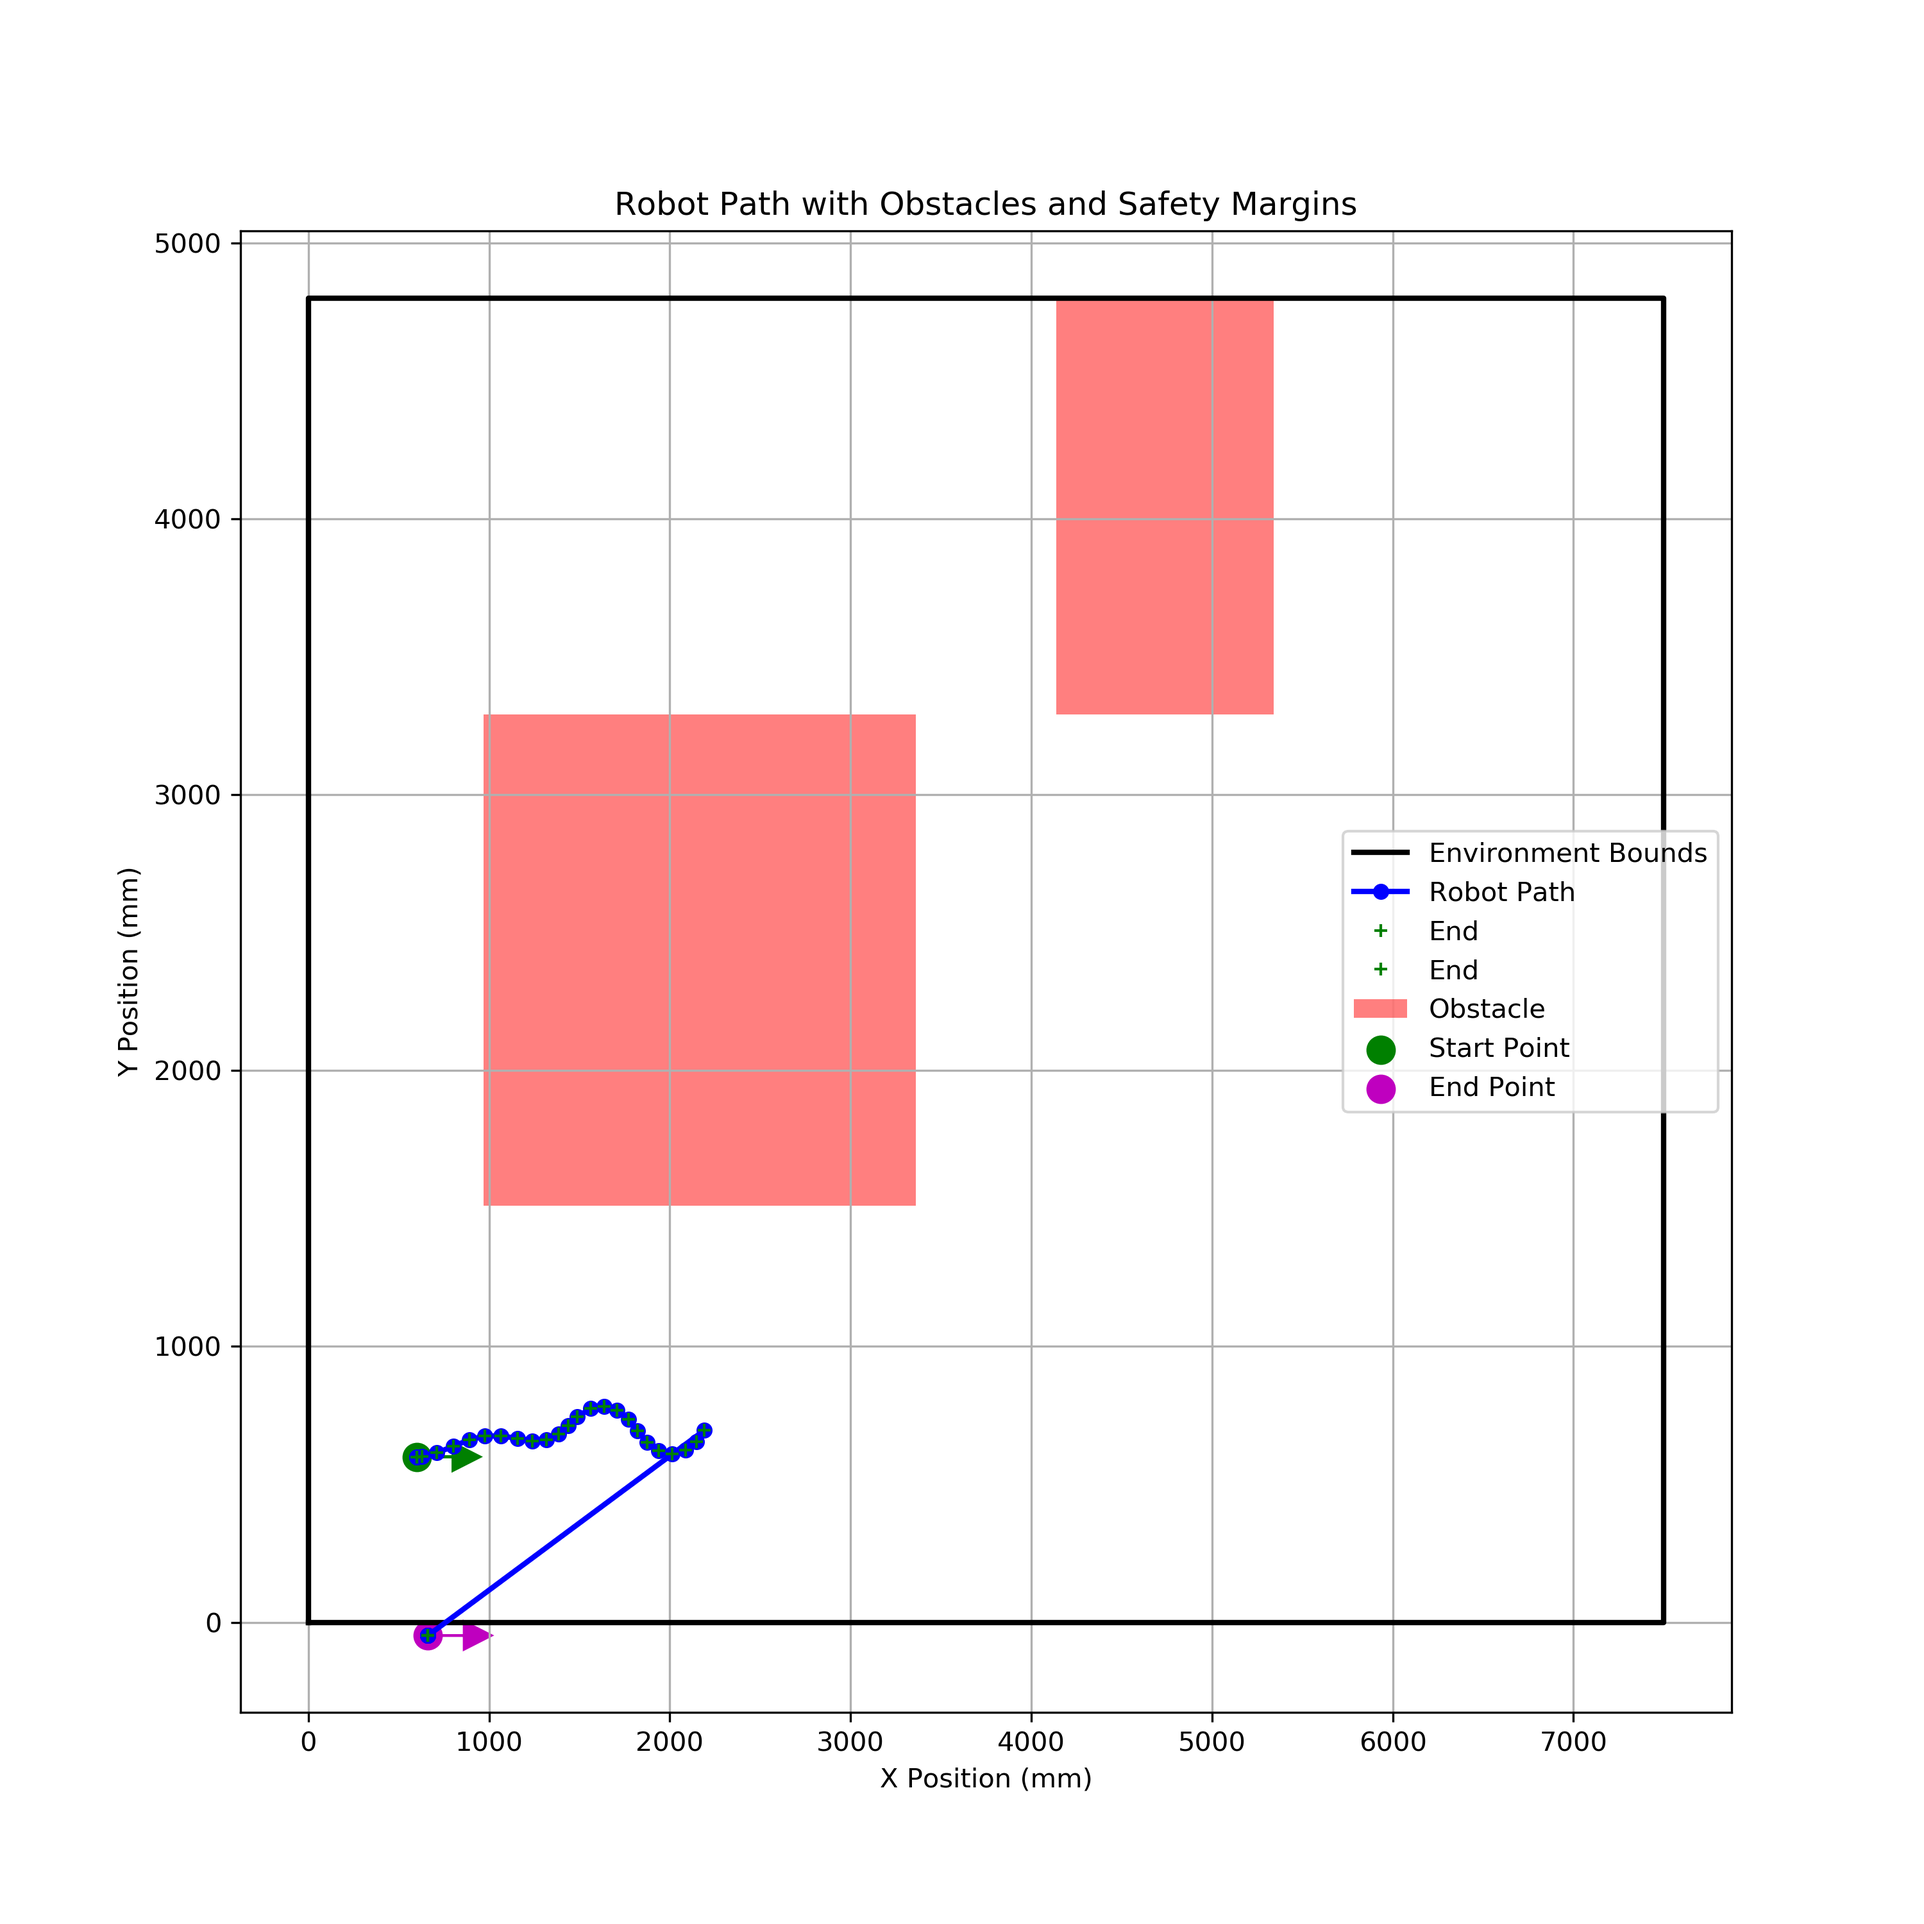
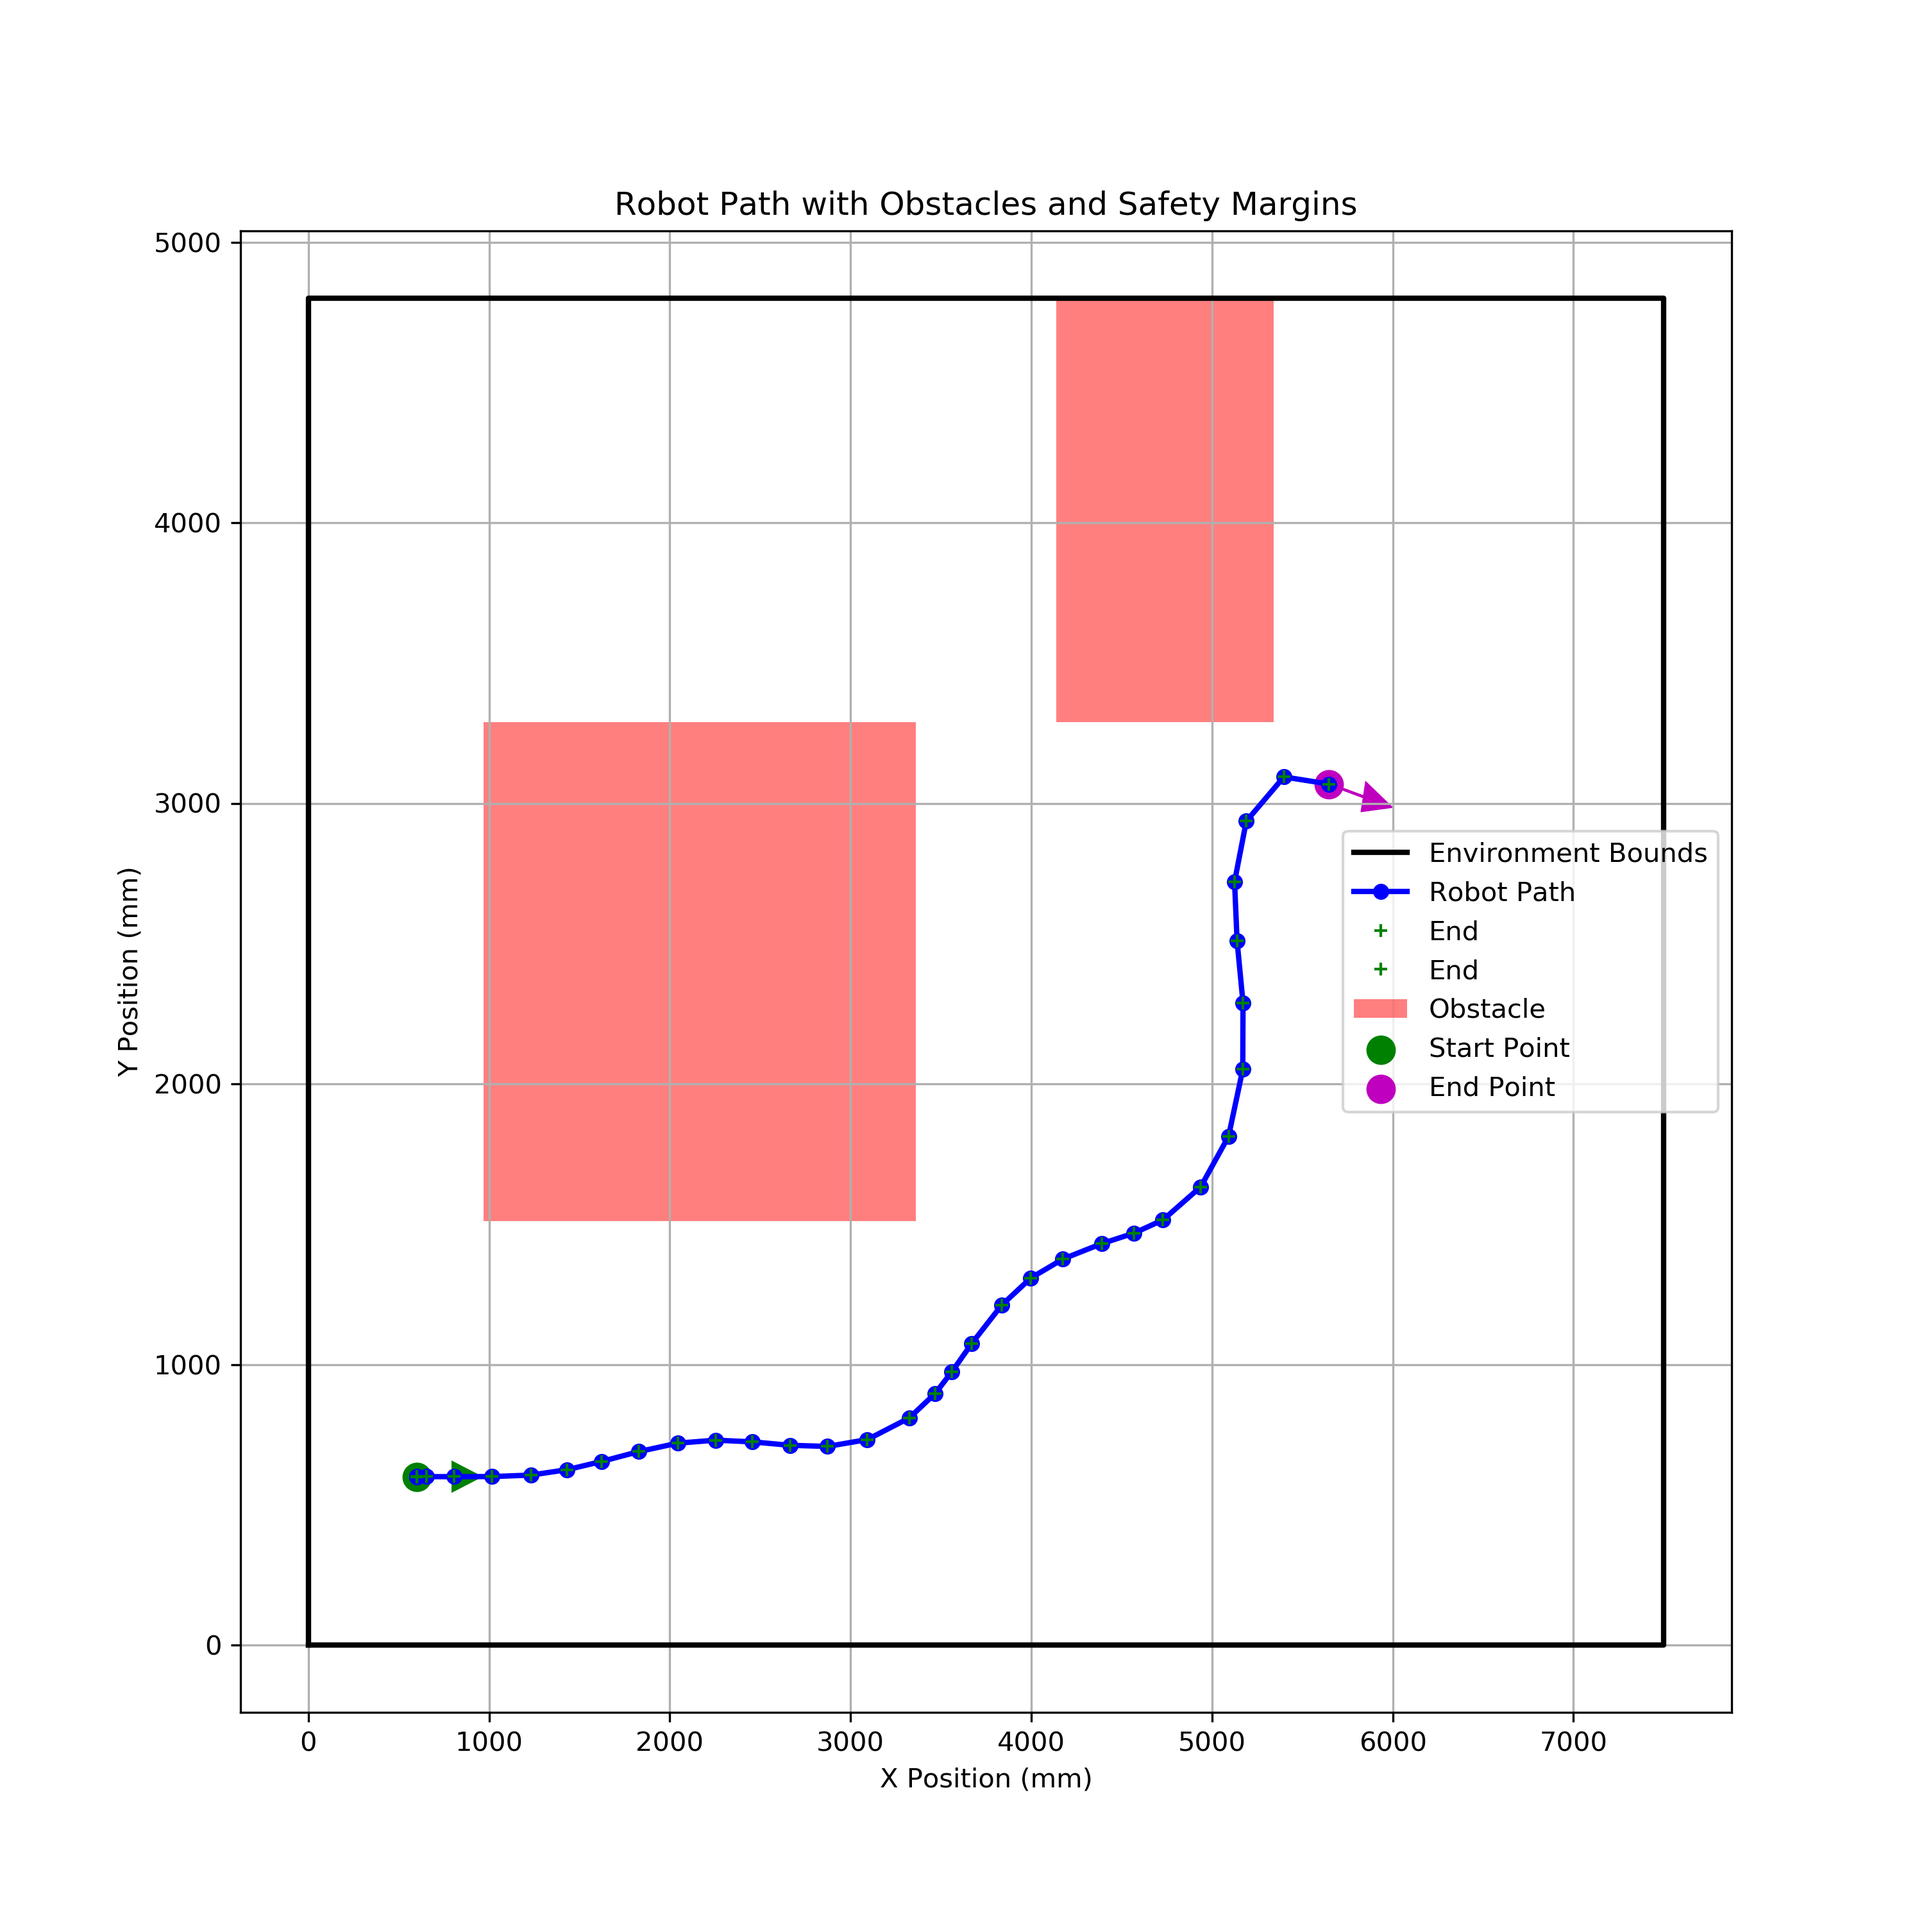
updated increment macro

diff --git a/src/control_stack/src/main.cpp b/src/control_stack/src/main.cpp
@@ -28,6 +28,8 @@ using namespace std;
 // Controller threshold: if the robot is within this distance of the target, advance to the next target.
 #define DIST_THRESHOLD   (500.0)  // mm
 
+#define T_INC       (0.04)
+
 //---------------------------------------------------------
 // Data Structures
 //---------------------------------------------------------
@@ -39,9 +41,9 @@ struct Point {
 // Bézier curve control points (in mm)
 vector<Point> controlPoints = {
     {600, 600},         // Start
-    {3553.01, 1088.52},    // Control point 1
-    {2936.13, -336.78},   // Control point 2
-    {6900, 4200}         // End
+    {2440.64, 845.26},    // Control point 1
+    {3902.44, 42.4},   // Control point 2
+    {6300, 3600}         // End
 };
 
 //---------------------------------------------------------
@@ -144,12 +146,12 @@ void computeControlSignals(double targetX, double targetY,
     
     // Compute linear velocity v (convert mm error to m error)
     v = Kp_v * (distanceError / 1000.0);
-    const double max_v = 0.3;  // m/s maximum
+    const double max_v = 10.0;  // m/s maximum
     if (v > max_v) v = max_v;
     
     // Compute angular velocity w.
     w = Kp_w * thetaError;
-    const double max_w = 1.0;  // rad/s maximum
+    const double max_w = 10.0;  // rad/s maximum
     if (w > max_w)  w = max_w;
     if (w < -max_w) w = -max_w;
     
@@ -181,7 +183,7 @@ void followBezierCurve(lib0xRobotCpp &robot, void* hSerial, double distancePerTi
     ros::Duration(1.0).sleep();
     
     double t = 0.0;
-    const double t_increment = 0.01;  // Increment t when near target
+    const double t_increment = T_INC;  // Increment t when near target
 
     // Create a ROS publisher for odometry.
     ros::NodeHandle nh;
